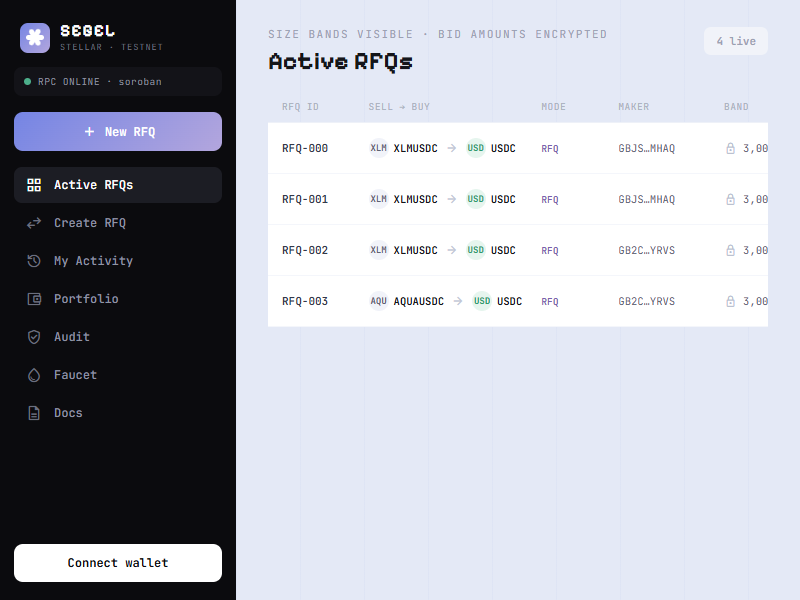
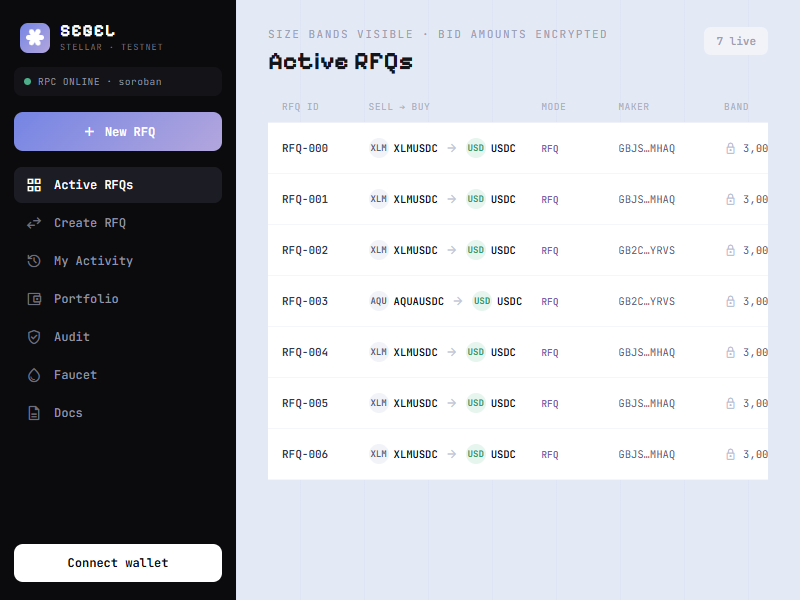
fix: credibility hardening from deep audit (mock-USDC honesty, live health, real probes)
Addresses the highest-impact findings from the multi-agent audit:

- F1 (USDC labeling): the escrow asset is a project-issued mock "USDC" SAC
  (issuer GC7SWGHR…, 1 holder) — NOT Circle's canonical testnet USDC
  (GBBD47IF…, ~38k holders). Relabel every "real testnet USDC" claim across
  README, deployments/testnet.json, docs/ONCHAIN.md, and stellar.js to say so
  accurately. Custody mechanics remain real SAC transfers.
- F2 (faucet): the embedded demo key faucet was a self-payment no-op that still
  toasted "received 50,000 USDC". Now the demo path tells the truth ("pre-funded
  — balance refreshed") and only the Freighter path does real funding.
- F3 (integration health): replace the hardcoded all-green panel with
  chain.healthCheck() — real probes: RPC getHealth, OTC rfq_count, verifier
  ledger-entry existence, live Poseidon == circomlib, and OTC escrow balance.
  Auto-runs on opening Audit; has a Re-run button.
- G4 (MCP): fix the advertised signature to the real
  verify_settlement(rfq) -> {settled, clearing, winner}; relabel "spec shipped"
  -> "live · reads on-chain".
- B4 (test quality): test-negative now asserts each rejection is a genuine
  circom constraint failure, not any thrown error (no more masking crashes).

Verified live: soundness 10/10, frontend smoke 0 console errors, and the Audit
health panel returns real on-chain values in-browser (7 RFQ, verifiers deployed,
Poseidon matches, 60000 stroops escrow).

Changed region(s): [[0.3125, 0.54, 0.9688, 0.81], [0.875, 0.06, 0.9062, 0.09]]

diff --git a/frontend/app.js b/frontend/app.js
@@ -28,7 +28,7 @@ const S = {
   view: "active", connected: false, address: null, balance: "0",
   rfqs: [], events: [], loading: true, modal: null, toast: null,
   form: { pair: "XLM / USDC", side: "SELL", mode: 1, min: "3000", max: "5000", deadlineMin: "60" },
-  createMode: 1,
+  createMode: 1, health: null,
 };
 
 // ---- bid-opening store (so the maker can settle from this browser) ----
@@ -247,16 +247,19 @@ function viewAudit() {
     ["OTC desk", chain.OTC], ["bidValidity verifier", chain.BID_VERIFIER],
     ["auctionResult verifier", chain.AUCTION_VERIFIER], ["USDC SAC (escrow)", chain.USDC_SAC],
   ];
-  const health = [["Soroban RPC", "reachable"], ["bidValidity verifier", "verify → true"], ["auctionResult verifier", "verify → true"], ["Poseidon host fn", "P25 active"], ["USDC SAC custody", "funded"]];
-  const mcp = [["list_rfqs()", "open RFQs from on-chain state", "RFQ[]"], ["verify_settlement(tx)", "recheck a settle proof", "{valid, clearing}"], ["clearing_price(rfq)", "public clearing price", "number"], ["bid_count(rfq)", "sealed bid count", "number"]];
+  const probing = S.health === null || S.health === "loading";
+  const healthRows = probing
+    ? ["Soroban RPC", "OTC desk", "bidValidity verifier", "auctionResult verifier", "Poseidon host fn", "USDC SAC escrow"].map((n) => `<div style="display:flex;justify-content:space-between;align-items:center;font-size:11.5px"><span style="color:#33384a">${n}</span><span style="color:#9aa0b2">checking…</span></div>`).join("")
+    : S.health.map(([n, s, ok]) => `<div style="display:flex;justify-content:space-between;align-items:center;font-size:11.5px"><span style="color:#33384a">${n}</span><span style="display:inline-flex;align-items:center;gap:6px;color:${ok ? "#2f9b6e" : "#b04a4a"}"><span style="width:14px;height:14px;border-radius:50%;background:${ok ? "#2f9b6e" : "#b04a4a"};color:#fff;display:inline-flex;align-items:center;justify-content:center;font-size:9px">${ok ? "✓" : "✗"}</span>${esc(s)}</span></div>`).join("");
+  const mcp = [["list_rfqs()", "open RFQs from on-chain state", "RFQ[]"], ["verify_settlement(rfq)", "recheck a settled RFQ on-chain", "{settled, clearing, winner}"], ["clearing_price(rfq)", "public clearing price", "number"], ["bid_count(rfq)", "sealed bid count", "number"]];
   return `<div>${header("SEGEL · AUDIT SURFACE", "Audit &amp; Integrations")}
     <div class="g2" style="margin-top:14px">
       <div style="border:1px solid #edf0f7;border-radius:13px;padding:18px;background:#fbfcff">
         <div style="font-size:11px;letter-spacing:1px;color:#9aa0b2;margin-bottom:13px">DEPLOYED ON TESTNET</div>
         <div style="display:flex;flex-direction:column;gap:11px">${contracts.map(([n, id]) => `<div style="display:flex;justify-content:space-between;align-items:center"><div><div style="font-size:12px;font-weight:600">${n}</div><div style="font-size:10px;color:#9aa0b2">${short(id)}</div></div><a href="${chain.explorer(id)}" target="_blank" style="font-size:10px;text-decoration:none;display:inline-flex;align-items:center;gap:5px"><span style="width:7px;height:7px;border-radius:50%;background:#4cae8a"></span>explorer ↗</a></div>`).join("")}</div></div>
       <div style="border:1px solid #edf0f7;border-radius:13px;padding:18px;background:#fbfcff">
-        <div style="font-size:11px;letter-spacing:1px;color:#9aa0b2;margin-bottom:13px">INTEGRATION HEALTH</div>
-        <div style="display:flex;flex-direction:column;gap:10px">${health.map(([n, s]) => `<div style="display:flex;justify-content:space-between;align-items:center;font-size:11.5px"><span style="color:#33384a">${n}</span><span style="display:inline-flex;align-items:center;gap:6px;color:#2f9b6e"><span style="width:14px;height:14px;border-radius:50%;background:#2f9b6e;color:#fff;display:inline-flex;align-items:center;justify-content:center;font-size:9px">✓</span>${s}</span></div>`).join("")}</div></div>
+        <div style="display:flex;justify-content:space-between;align-items:center;margin-bottom:13px"><span style="font-size:11px;letter-spacing:1px;color:#9aa0b2">INTEGRATION HEALTH · LIVE</span><button data-act="health" ${probing ? "disabled" : ""} style="font-size:10px;font-weight:600;border:none;cursor:pointer;background:#eef1fb;color:#3a4a8a;padding:5px 9px;border-radius:6px;${probing ? "opacity:.5" : ""}">${probing ? "probing…" : "Re-run"}</button></div>
+        <div style="display:flex;flex-direction:column;gap:10px">${healthRows}</div></div>
       <div style="border:1px solid #edf0f7;border-radius:13px;padding:18px;background:#fbfcff">
         <div style="font-size:11px;letter-spacing:1px;color:#9aa0b2;margin-bottom:13px">ON-CHAIN POSEIDON CHECK</div>
         <div style="font-size:11px;color:#5d6273;margin-bottom:12px;line-height:1.5">Call the contract's <b>poseidon_hash(1,2)</b> live and confirm it equals circomlib's poseidon([1,2]) — the commitment scheme is verifiable on-chain, not just asserted.</div>
@@ -267,19 +270,24 @@ function viewAudit() {
         <div style="display:flex;gap:10px;margin-bottom:13px"><div style="flex:1;text-align:center;background:#e6f5ee;border-radius:9px;padding:11px"><div style="font-family:'Pixelify Sans',monospace;font-weight:700;font-size:22px;color:#2f9b6e">14</div><div style="font-size:9.5px;color:#5d8c75">unit tests</div></div><div style="flex:1;text-align:center;background:#eef1fb;border-radius:9px;padding:11px"><div style="font-family:'Pixelify Sans',monospace;font-weight:700;font-size:22px;color:#3a4a8a">2</div><div style="font-size:9.5px;color:#6a72a0">circuits</div></div><div style="flex:1;text-align:center;background:#fbf3df;border-radius:9px;padding:11px"><div style="font-family:'Pixelify Sans',monospace;font-weight:700;font-size:22px;color:#b08a2e">1</div><div style="font-size:9.5px;color:#9a7a3a">tamper test</div></div></div>
         <div style="font-size:10.5px;color:#5d6273;line-height:1.6">Binding: the contract builds every verifier public-input vector itself. Tampering the clearing price → rejected on-chain (InvalidProof).</div></div>
       <div style="border:1px solid #edf0f7;border-radius:13px;padding:18px;background:#0b0b0e;grid-column:1 / -1">
-        <div style="display:flex;justify-content:space-between;align-items:center;margin-bottom:13px"><div style="font-size:11px;letter-spacing:1px;color:#7e8294">MCP SERVER · Stellar-native, read-only</div><span style="font-size:10px;color:#4cae8a;display:inline-flex;align-items:center;gap:6px"><span style="width:7px;height:7px;border-radius:50%;background:#4cae8a"></span>spec shipped</span></div>
+        <div style="display:flex;justify-content:space-between;align-items:center;margin-bottom:13px"><div style="font-size:11px;letter-spacing:1px;color:#7e8294">MCP SERVER · Stellar-native, read-only</div><span style="font-size:10px;color:#4cae8a;display:inline-flex;align-items:center;gap:6px"><span style="width:7px;height:7px;border-radius:50%;background:#4cae8a"></span>live · reads on-chain</span></div>
         <div class="g2" style="gap:10px">${mcp.map(([call, desc, ret]) => `<div style="background:#16161b;border-radius:10px;padding:12px 13px"><div style="font-size:11.5px;color:#cdd2e0;font-weight:600">${call}</div><div style="font-size:10px;color:#7e8294;margin-top:5px;line-height:1.5">${desc}</div><div style="font-size:9.5px;color:#5a8f7a;margin-top:7px">→ ${ret}</div></div>`).join("")}</div></div>
     </div></div>`;
 }
 
 function viewFaucet() {
+  const demo = S.connected && !chain.usingWallet();
+  const blurb = demo
+    ? "The embedded demo key is already pre-funded with testnet USDC — there's nothing to request. Connect Freighter to fund your own wallet instead. Stellar testnet only — no real value."
+    : "Fund your own wallet with testnet USDC (friendbot XLM + a USDC trustline + a transfer) to post RFQs and seal bids. Stellar testnet only — no real value.";
+  const label = demo ? "Refresh balance" : "Fund my wallet with testnet USDC";
   return `<div style="display:flex;justify-content:center">
     <div style="max-width:420px;width:100%;margin-top:30px;text-align:center;border:1px solid #edf0f7;border-radius:16px;padding:30px;background:#fbfcff">
       <span class="msi" style="font-size:40px;color:#6c7fe0">water_drop</span>
       <div style="font-family:'Pixelify Sans',monospace;font-weight:700;font-size:20px;margin:10px 0 6px">Testnet Faucet</div>
-      <div style="font-size:11.5px;color:#8a8f9c;line-height:1.6;margin-bottom:20px">Fund your account with testnet USDC to post RFQs and seal bids. Stellar testnet only — no real value.</div>
+      <div style="font-size:11.5px;color:#8a8f9c;line-height:1.6;margin-bottom:20px">${blurb}</div>
       <div style="background:#fff;border:1px solid #edf0f7;border-radius:10px;padding:14px;margin-bottom:16px;display:flex;justify-content:space-between;align-items:center"><span style="font-size:11px;color:#9aa0b2">Current balance</span><span style="font-family:'Pixelify Sans',monospace;font-weight:600;font-size:16px">${fmt(S.balance)} USDC</span></div>
-      <button data-act="dofaucet" style="width:100%;font-size:12.5px;font-weight:600;cursor:pointer;padding:13px;border-radius:10px;border:none;background:linear-gradient(135deg,#7585e4,#b3a6dd);color:#fff">Request 50,000 testnet USDC</button>
+      <button data-act="dofaucet" style="width:100%;font-size:12.5px;font-weight:600;cursor:pointer;padding:13px;border-radius:10px;border:none;background:linear-gradient(135deg,#7585e4,#b3a6dd);color:#fff">${label}</button>
     </div></div>`;
 }
 
@@ -361,6 +369,8 @@ function bind() {
   document.querySelectorAll("[data-act]").forEach((b) => b.onclick = (e) => { e.stopPropagation(); act(b.dataset.act); });
   document.querySelectorAll("[data-form]").forEach((i) => i.oninput = () => { S.form[i.dataset.form] = i.value; });
   document.querySelectorAll("[data-stop]").forEach((d) => d.onclick = (e) => e.stopPropagation());
+  // auto-probe integration health once when the Audit view is opened
+  if (S.view === "audit" && S.health === null) { S.health = "loading"; doHealth(); }
   const amt = document.querySelector('[data-bid="amt"]'), sl = document.querySelector('[data-bid="slider"]');
   if (amt) amt.oninput = () => { S.modal.amount = amt.value; const s = document.querySelector('[data-bid="slider"]'); if (s && !isNaN(+amt.value)) s.value = amt.value; };
   if (sl) sl.oninput = () => { S.modal.amount = sl.value; const a = document.querySelector('[data-bid="amt"]'); if (a) a.value = sl.value; };
@@ -382,6 +392,12 @@ async function act(a) {
   if (cmd === "view") { S.view = "activity"; return render(); }
   if (cmd === "dofaucet") return doFaucet();
   if (cmd === "poseidon") return doPoseidon();
+  if (cmd === "health") { S.health = "loading"; render(); return doHealth(); }
+}
+
+async function doHealth() {
+  try { S.health = await chain.healthCheck(); } catch { S.health = []; }
+  if (S.view === "audit") render();
 }
 
 async function doConnect(kind) {
@@ -403,11 +419,18 @@ async function doConnect(kind) {
 async function doFaucet() {
   if (!S.connected) return toast("Connect a wallet first", "!", "#3a2a14", "#ffe0b0");
   try {
-    toast("Requesting testnet USDC…", "◷");
-    if (chain.usingWallet()) { await wallet.setupTestnetFunds(S.address, null, (m) => toast(m, "◷")); }
-    else { await chain.faucetUsdc(chain.DEMO_ADDRESS); }
-    logEvent("FAUCET", "Faucet", "received 50,000 testnet USDC");
-    await refreshBalance(); toast("USDC received", "✓");
+    if (chain.usingWallet()) {
+      // real funding: friendbot XLM + USDC trustline + a transfer from the demo whale
+      toast("Requesting testnet USDC…", "◷");
+      await wallet.setupTestnetFunds(S.address, null, (m) => toast(m, "◷"));
+      logEvent("FAUCET", "Faucet", "funded wallet with testnet USDC");
+      await refreshBalance(); toast("USDC received", "✓");
+    } else {
+      // the embedded demo key IS the funded source account — it can't faucet to
+      // itself. Tell the truth and just refresh the (already large) balance.
+      await refreshBalance();
+      toast("Demo key is pre-funded — balance refreshed", "✓");
+    }
   } catch (e) { toast(e.message || "faucet failed", "✕", "#3a1414", "#ffd2d2"); }
 }
 

diff --git a/frontend/stellar.js b/frontend/stellar.js
@@ -18,6 +18,10 @@ export const OTC = "CDN3B3AC6AGNQPLQ2TR654P4YOQBAUJDLQELZXEU42EXZZ6WCHMSD7Y3";
 export const BID_VERIFIER = "CAL5XO2NPC2ZFVQSXX7HSS6ARQOX6GL24LCR5SZVEIKENOLN2HUOK7DK";
 export const AUCTION_VERIFIER = "CCEZVOKXYPUH67KAVVQ6ZZAPUUXSE7ENBO3OLTTLHCVKDMJHOLGGJEBY";
 export const USDC_SAC = "CAT6F6HX4B2DBPSS4SIZ257IYSMKDKRJSEGIQTKBDS7LOFRMDXVGFVA2";
+// Testnet USDC-denominated Stellar Asset Contract. NOTE: the issuer below is a
+// PROJECT-CONTROLLED mock — not Circle's canonical testnet USDC
+// (GBBD47IF6LWK7P7MDEVSCWR7DPUWV3NY3DTQEVFL4NAT4AQH3ZLLFLA5). The escrow/custody
+// mechanics are real; the asset is a stand-in for demo purposes.
 const USDC = new Sdk.Asset("USDC", "GC7SWGHRQLMP4SW2AOBRSC2HFKVPNPHBH5A3PX3ZDVEJFMYKLWQ3SY3B");
 
 // Throwaway testnet demo key (non-admin) — only signs demo txs. Public on purpose.
@@ -244,6 +248,31 @@ export async function poseidonHash(a, b) {
   if (!r.ok) throw new Error("poseidon_hash failed");
   const u8 = r.value;
   return "0x" + Array.from(u8).map((x) => x.toString(16).padStart(2, "0")).join("");
+}
+
+// Live integration health — EVERY row is a real on-chain probe (RPC call, contract
+// simulation, or ledger-entry existence check), not a static badge. Returns
+// [label, status, ok] triples; ok=false renders red. Failures degrade gracefully.
+export async function healthCheck() {
+  const rows = [];
+  // 1. Soroban RPC actually reachable + healthy
+  try { const h = await server.getHealth(); const ok = h?.status === "healthy"; rows.push(["Soroban RPC", ok ? "healthy" : (h?.status || "reachable"), ok]); }
+  catch { rows.push(["Soroban RPC", "unreachable", false]); }
+  // 2. OTC desk responds and reports its live RFQ count
+  try { const c = await simulate(OTC, "rfq_count"); rows.push(["OTC desk", c.ok ? `live · ${Number(c.value)} RFQ` : "no response", c.ok]); }
+  catch { rows.push(["OTC desk", "no response", false]); }
+  // 3. Both verifier contracts are genuinely deployed on-chain (ledger entry exists)
+  for (const [name, id] of [["bidValidity verifier", BID_VERIFIER], ["auctionResult verifier", AUCTION_VERIFIER]]) {
+    try { const e = await server.getLedgerEntries(new Sdk.Contract(id).getFootprint()); const ok = !!(e.entries && e.entries.length); rows.push([name, ok ? "deployed" : "missing", ok]); }
+    catch { rows.push([name, "unreachable", false]); }
+  }
+  // 4. On-chain Poseidon host fn matches circomlib (live contract call)
+  try { const p = await poseidonHash(1, 2); const ok = p.toLowerCase().startsWith("0x115cc0f5"); rows.push(["Poseidon host fn", ok ? "matches circomlib" : "mismatch", ok]); }
+  catch { rows.push(["Poseidon host fn", "unreachable", false]); }
+  // 5. USDC SAC escrow held by the OTC contract (real balance read)
+  try { const b = await balanceOf(OTC); rows.push(["USDC SAC escrow", b === "0" ? "0 held (no open bids)" : `${b} stroops held`, true]); }
+  catch { rows.push(["USDC SAC escrow", "unreadable", false]); }
+  return rows;
 }
 
 export const txExplorer = (h) => `https://stellar.expert/explorer/testnet/tx/${h}`;

diff --git a/README.md b/README.md
@@ -10,7 +10,8 @@ bid stays hidden forever** — while the whole thing remains verifiable on-chain
 
 Built for the [Stellar Hacks: Real-World ZK](https://dorahacks.io/hackathon/stellar-hacks-zk)
 hackathon. Two Circom/Groth16/BN254 circuits do the real work; a Soroban contract
-verifies the proofs on-chain and custodies real testnet USDC.
+verifies the proofs on-chain and custodies a testnet USDC-denominated asset
+(a project-issued mock SAC — see the note under "What's real").
 
 ---
 
@@ -86,7 +87,7 @@ Nothing here is namechecked. Each item, if removed, breaks the desk:
 | **BN254 scalar-field arithmetic** (P26) | the contract builds the public-input `Vec<Bn254Fr>` itself (binding) |
 | **Poseidon host function** (P25) | `poseidon_hash(a,b)` exposed on-chain; matches circomlib exactly — the commitment scheme is verifiable on-chain, not asserted |
 | **Soroban** | the whole desk: RFQ state, commit-set, escrow custody, settlement |
-| **USDC SAC** | real testnet USDC escrow; winner pays clearing to maker, losers refunded |
+| **USDC SAC** | testnet USDC-denominated SAC escrow (project-issued mock asset, not Circle's USDC); winner pays clearing to maker, losers refunded |
 | **Freighter / embedded key** | real signing of `post_rfq` / `commit_bid` / `settle` |
 
 The contract's **binding** property is the security crux: it never accepts a
@@ -99,9 +100,12 @@ spoofed identity, or a different bid set — any mismatch fails verification.
 
 ## What's real (not mocked)
 
-- **Real USDC escrow & settlement.** `commit_bid` pulls a good-faith escrow
-  (= `band_max`) from the bidder; `settle` pays the winner's clearing price to the
-  maker, refunds the surplus, and refunds every loser — all real testnet USDC.
+- **Real escrow & settlement (mock USDC asset).** `commit_bid` pulls a good-faith
+  escrow (= `band_max`) from the bidder; `settle` pays the winner's clearing price
+  to the maker, refunds the surplus, and refunds every loser. The custody mechanics
+  are real SAC transfers; the asset is a **project-issued testnet "USDC" SAC (mock
+  issuer), not Circle's canonical testnet USDC** — swapping to Circle's SAC is a
+  config + redeploy.
 - **Real proof-of-funds.** The escrow transfer must succeed, so the bidder
   provably holds ≥ `band_max` ≥ their hidden bid; the circuit binds `bid ≤ band_max`.
 - **Real on-chain verification.** Both verifiers return `true` for valid proofs

diff --git a/docs/ONCHAIN.md b/docs/ONCHAIN.md
@@ -23,7 +23,8 @@ bash scripts/wsl-deploy.sh    # deploys both verifiers + the otc desk (construct
 ```
 
 Constructor: `__constructor(admin, token, bid_verifier, auction_verifier, asp_root)`
-— `token` is the testnet USDC SAC; `asp_root` comes from `node scripts/asp.mjs`.
+— `token` is a testnet USDC-denominated SAC (project-issued mock issuer, not
+Circle's USDC); `asp_root` comes from `node scripts/asp.mjs`.
 
 ## Verify a proof on-chain
 